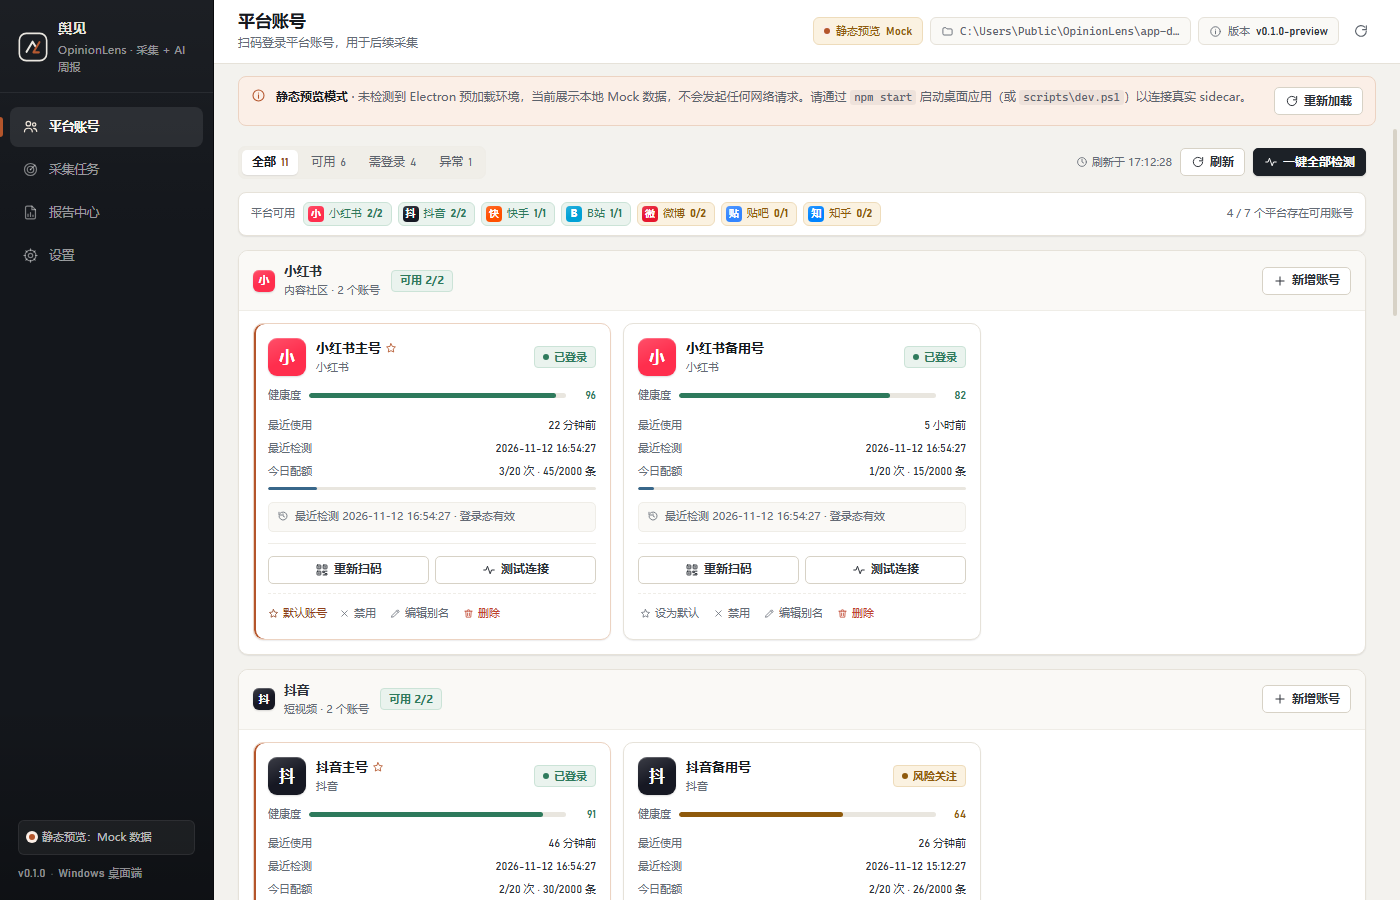
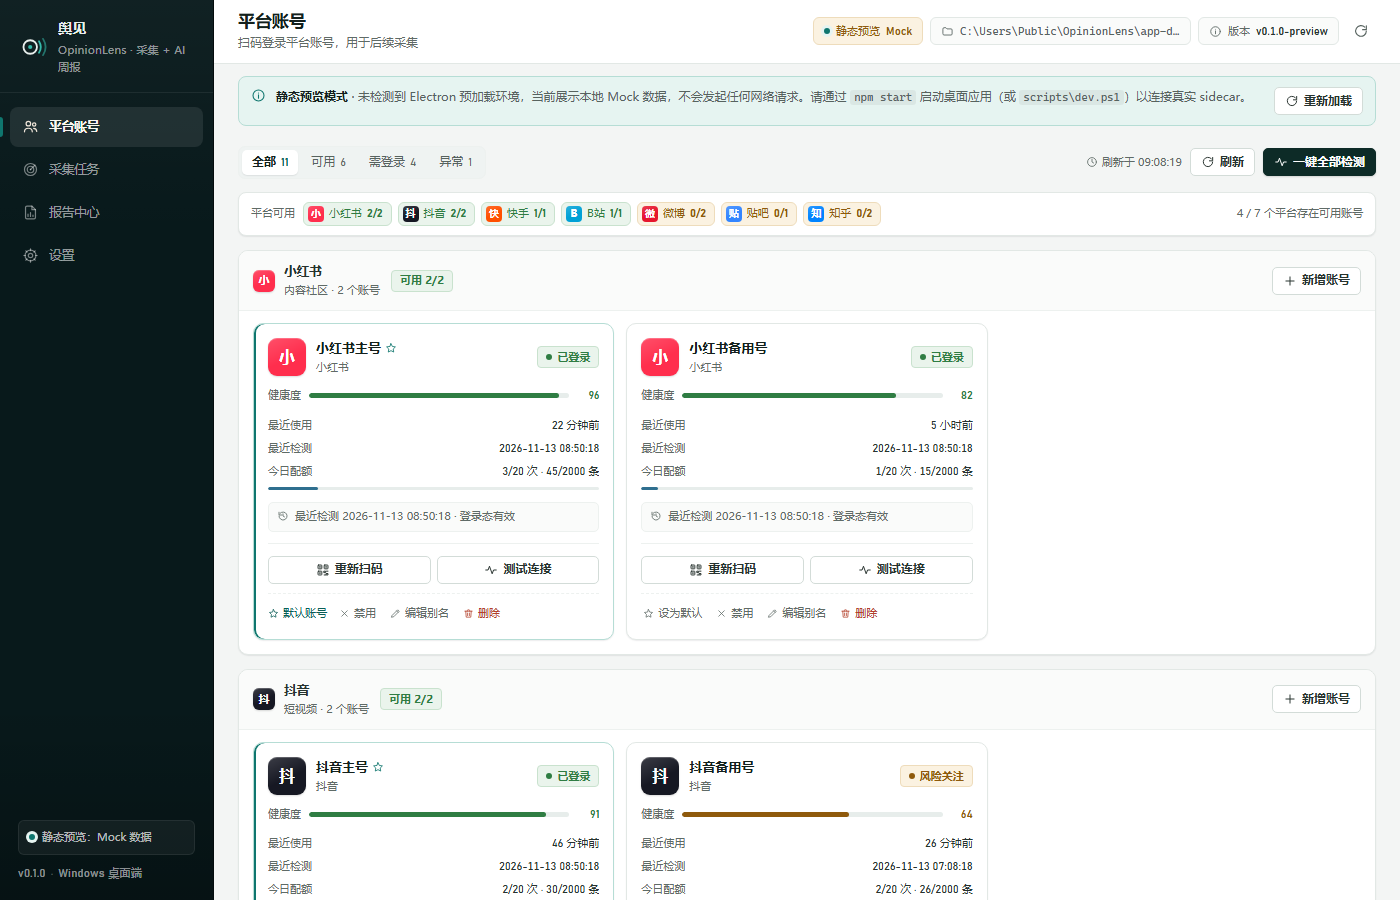
docs: 更新 0.2.1 深海青主题截图、README 与变更记录
- 重新生成全部界面截图（预览模式 77~82 + Electron 真实应用 96/96b/97/98/99），
  移除旧主题历史截图（83~95）；
- README 增加真实应用「通知推送 / 报告中心」截图与版本徽章 0.2.1；
- CHANGELOG 新增 0.2.1（品牌视觉更新：深海青主题与全新图标）；
- renderer README 更新截图索引；常用命令补充应用图标重新生成命令。

diff --git a/app/desktop/renderer/README.md b/app/desktop/renderer/README.md
@@ -129,7 +129,7 @@ URL 参数演示 404 降级（后端未接线场景）：
 
 ## 截图
 
-对外演示截图位于仓库根目录 `docs/preview/`（`07*` 为设计改版前历史图，本次新增）：
+对外演示截图位于仓库根目录 `docs/preview/`（深海青品牌主题）：
 
 | 文件 | 内容 |
 | --- | --- |
@@ -139,12 +139,12 @@ URL 参数演示 404 降级（后端未接线场景）：
 | `80_tasks_account_policy.png` | 采集任务 · 账号策略（自动选号/指定账号） |
 | `81_settings_account_pool.png` | 设置 · 账号池（策略/限额/旧目录迁移） |
 | `82_settings_about.png` | 设置 · 关于（版本/数据目录/MIT/免责声明） |
-| `83_accounts_login_qr.png` | 扫码登录弹窗（应用内二维码） |
-| `84_accounts_create_modal.png` | 新增账号弹窗 |
-| `85_tasks_account_manual.png` | 采集任务 · 指定账号模式 |
-| `86_tasks_run_accounts.png` | 运行详情 · 账号策略标签 |
-| `87~94_real_*.png` | 真实 sidecar 联调截图（模型 API CRUD、通知规则/通道、账号池 legacy、任务策略、报告中心） |
-| `95_tasks_run_platform_accounts.png` | 运行详情 · 分平台进度账号别名 / 切号记录 |
+| `96_real_settings_model_api.png` | 真实应用 · 设置（模型 API，真实 sidecar） |
+| `96b_real_accounts.png` | 真实应用 · 平台账号（legacy 账号兼容） |
+| `96b_real_tasks.png` | 真实应用 · 采集任务 |
+| `97_real_settings_notify.png` | 真实应用 · 设置（通知推送） |
+| `98_real_settings_pool.png` | 真实应用 · 设置（账号池策略） |
+| `99_real_reports.png` | 真实应用 · 报告中心 |
 
 ## 已知简化
 

diff --git a/README.md b/README.md
@@ -9,7 +9,7 @@
 [![Platform](https://img.shields.io/badge/platform-Windows%2010%2F11-0078D4?logo=windows&logoColor=white)](#快速开始)
 [![Electron](https://img.shields.io/badge/Electron-45-47848F?logo=electron&logoColor=white)](app/desktop/package.json)
 [![Python](https://img.shields.io/badge/Python-3.11%2B-3776AB?logo=python&logoColor=white)](app/sidecar/README.md)
-[![Release](https://img.shields.io/badge/release-0.2.0-blue)](CHANGELOG.md)
+[![Release](https://img.shields.io/badge/release-0.2.1-blue)](CHANGELOG.md)
 [![License](https://img.shields.io/badge/license-MIT-green)](LICENSE)
 
 </div>
@@ -95,7 +95,11 @@
 |---|---|
 | ![真实应用账号页](docs/preview/96b_real_accounts.png) | ![真实应用设置页](docs/preview/96_real_settings_model_api.png) |
 
-> 前两行为本地预览模式联调截图（数据均模拟）；最后一行为 Electron 真实应用 + 本地 sidecar 截图
+| 真实应用 · 通知推送 | 真实应用 · 报告中心 |
+|---|---|
+| ![真实应用通知设置](docs/preview/97_real_settings_notify.png) | ![真实应用报告中心](docs/preview/99_real_reports.png) |
+
+> 前两行为本地预览模式联调截图（数据均模拟）；后两行为 Electron 真实应用 + 本地 sidecar 截图
 > （使用本机既有测试数据）。截图不含真实账号、Cookie 与密钥。
 
 ## 系统架构

diff --git a/CHANGELOG.md b/CHANGELOG.md
@@ -2,6 +2,19 @@
 
 本项目自开源基线 0.1.0 起按版本记录变更。
 
+## 0.2.1 · 2026-11-13（品牌视觉更新：深海青主题与全新图标）
+
+**视觉**
+- 全新「深海青」品牌配色：强调色由赤陶橙改为深青 `#0f766e`，侧栏改为深青墨色 `#08191b`，
+  界面底色与中性色同步转为冷调纸感；语义色（正面/负面/警告/信息）重新校准对比度（正文 ≥4.5:1）。
+- 全新应用图标与侧边栏 Logo：以「透镜 + 观察波纹」图形替换旧标记（`app-desktop/renderer/assets/`），
+  同步生成 NSIS 安装包图标与窗口图标。
+- AI 报告 HTML 模板品牌色同步为深海青（页头渐变、章节标记、表头、图表调色板、热词/链接色）。
+
+**工程**
+- 新增 `app/scripts/make_app_icons.py`：从设计参数一键重新生成 `app-icon-1024.png` / `app-icon.ico`（可复现）。
+- Electron 截图辅助新增 `--demo-tab <model|notify|pool|about>`，便于自动化截取设置页各 tab。
+- 重新生成 `docs/preview/` 全部界面截图，移除旧主题历史截图。
 ## 0.2.0 · 2026-11-12（设置中心：通知 / 多账号号池 / 模型 API）
 
 **新增**

diff --git a/docs/常用命令_构建运行自测.md b/docs/常用命令_构建运行自测.md
@@ -97,6 +97,15 @@ cd "$Repo\app\desktop"
 
 > 无 Electron 环境时可用浏览器打开 `app/desktop/renderer/index.html`（无 preload 时自动进入静态预览模式）。
 
+### 重新生成应用图标（品牌视觉）
+
+```powershell
+# 由 app/scripts/make_app_icons.py 生成 assets 下的 app-icon-1024.png / app-icon.ico
+& $Py "$Repo\app\scripts\make_app_icons.py"
+```
+
+> 图标设计为「透镜 + 观察波纹」深海青品牌图形；修改配色/图形后重新运行即可，安装包与窗口图标会同步使用。
+
 ---
 
 ## 4. 生成安装前 resources staging
